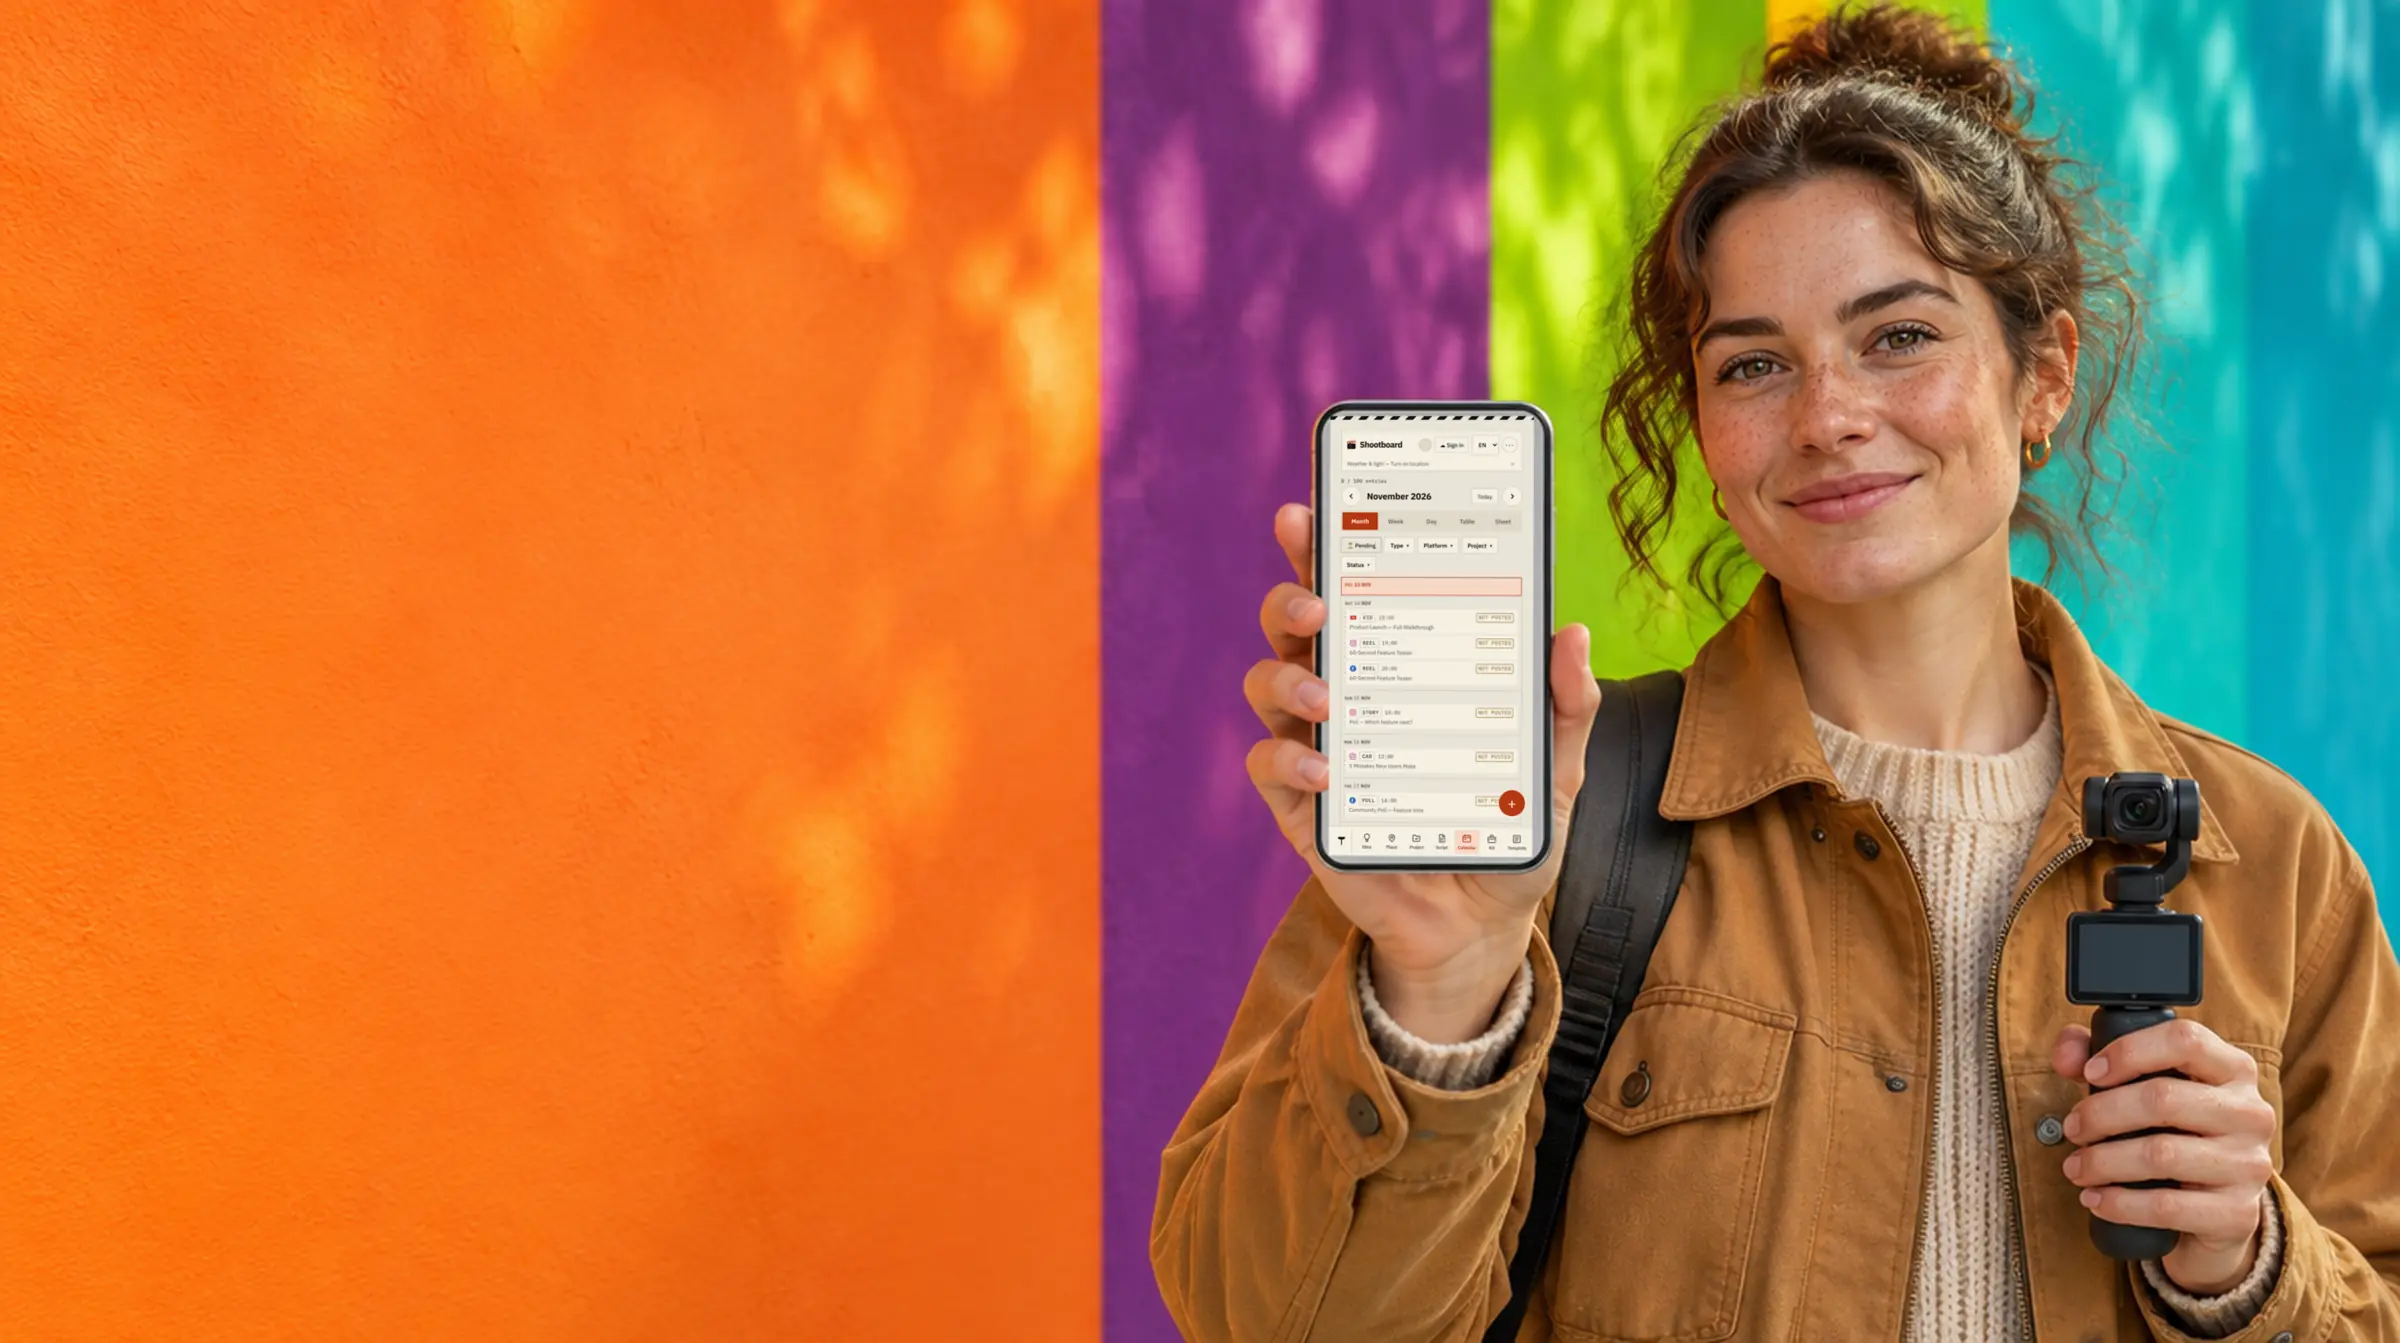
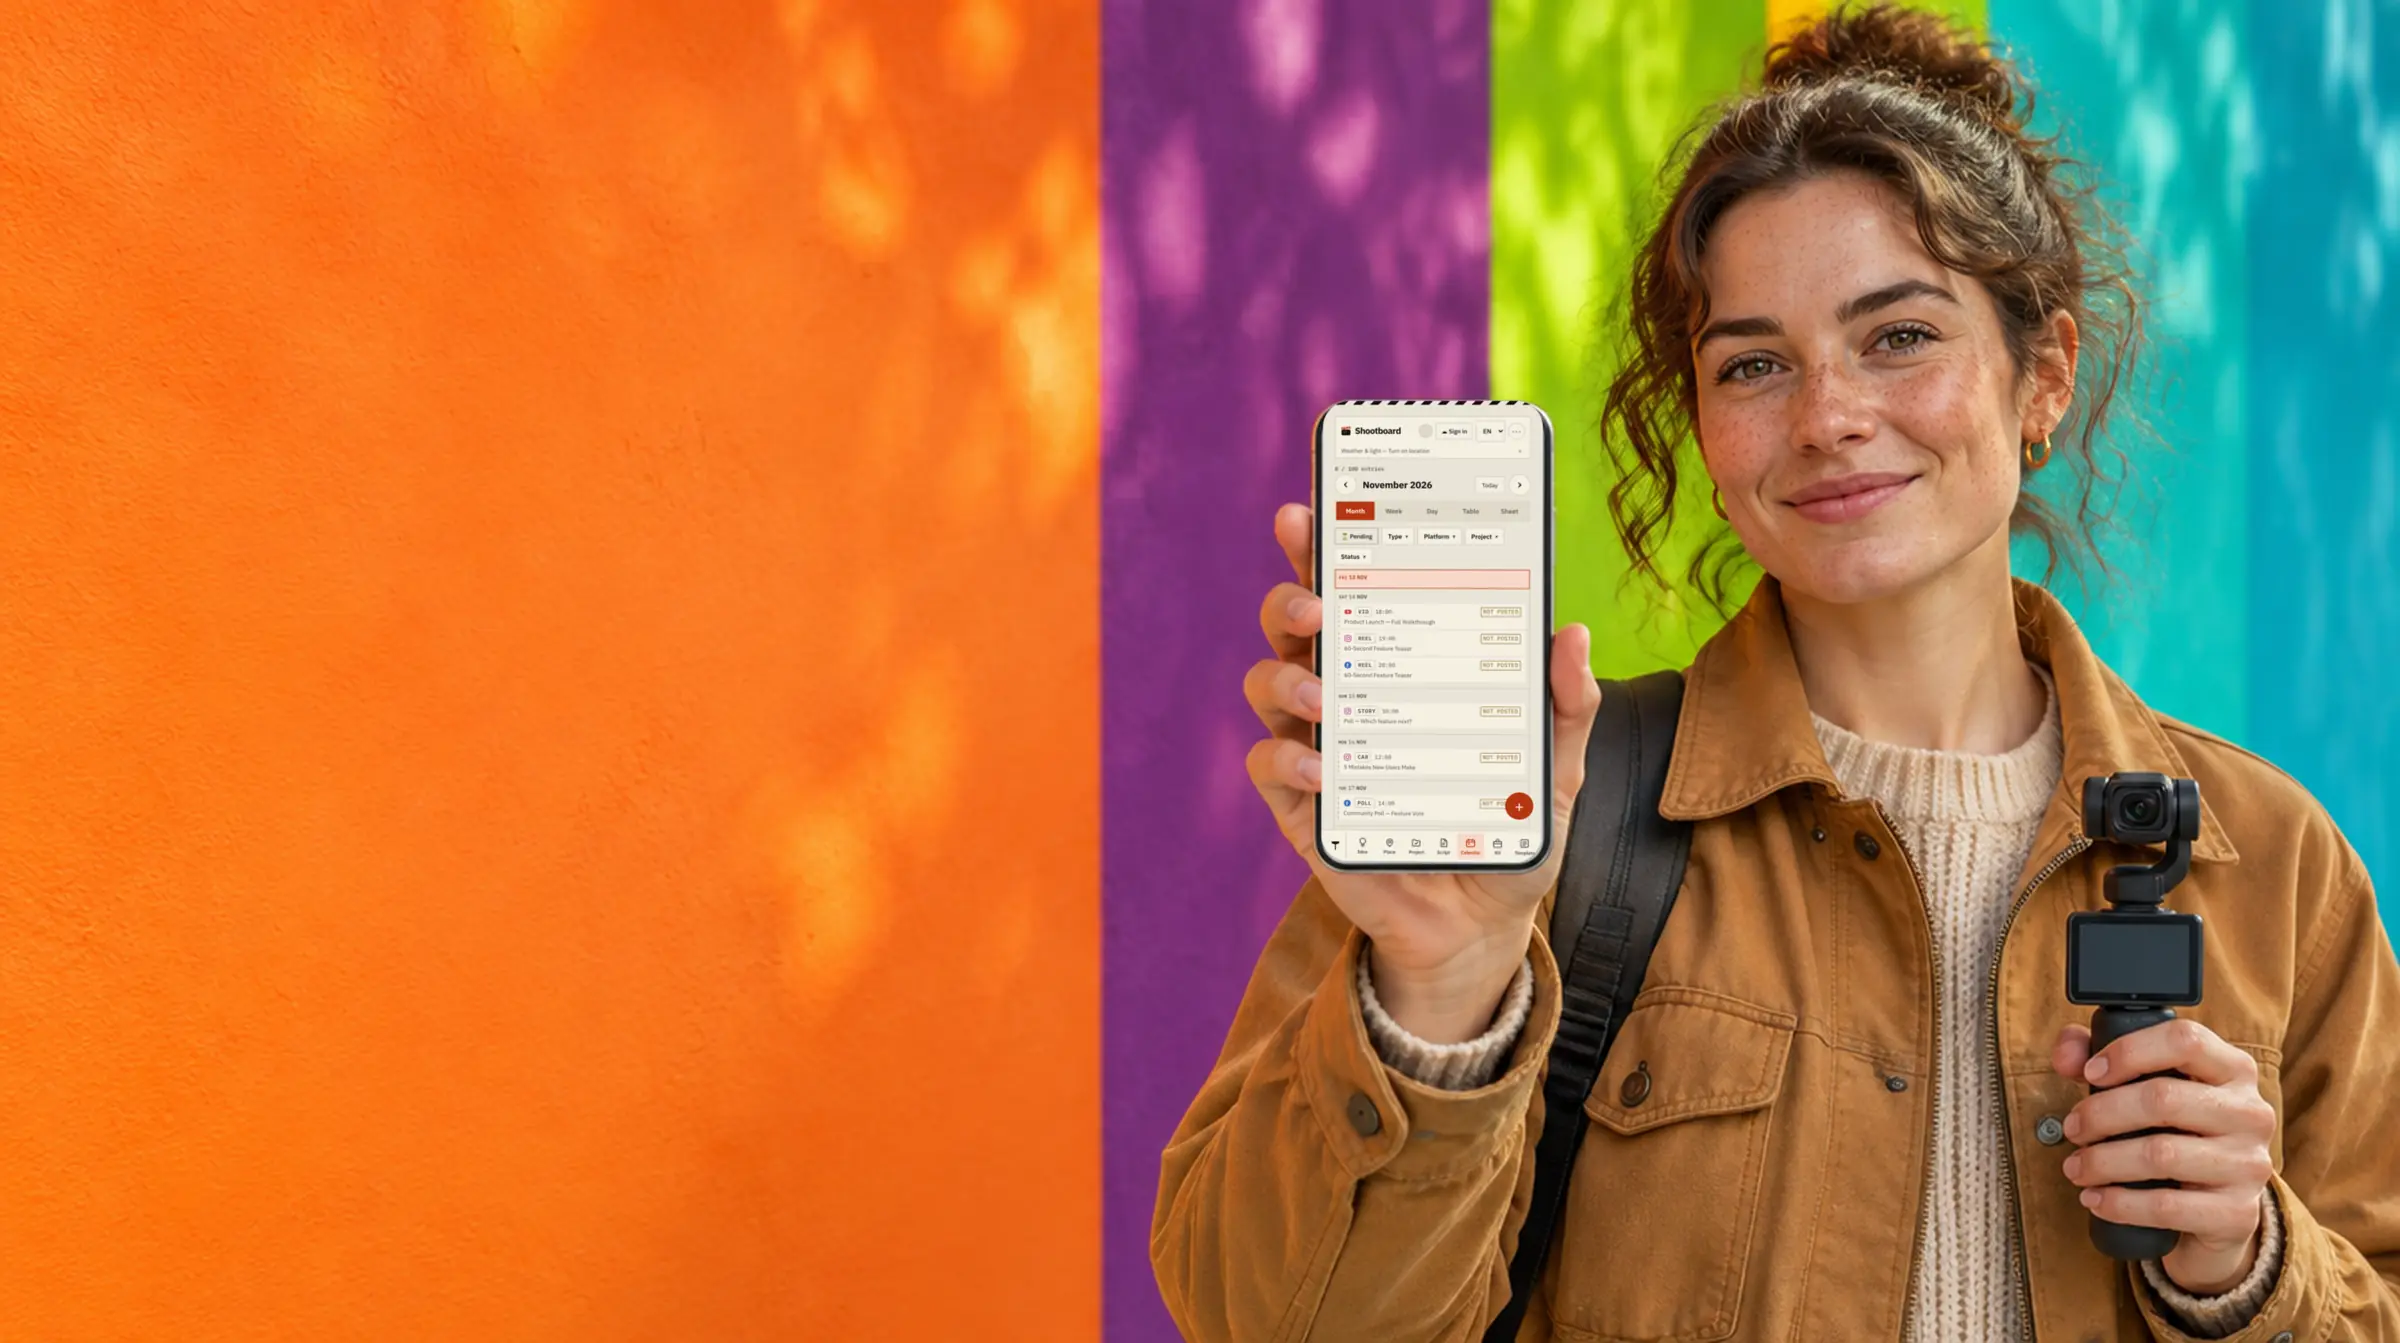
Montaj duzeltildi: uygulamanin kosleri yuvarlak, dortgen camin gercek kenarina oturuyor
KULLANICI: "bu gorselde kizin parmaklari app in arkasinda kalmis gibi!"

Tespit dogruydu ama sebebi parmaklarda degildi: ozgun fotografta HICBIR
parmak camin ustune tasmiyor (kontrol edildi). Montajda iki hata vardi:

1. KOSELER KESKINDI. Uygulama duz bir dikdortgen olarak yerlestirilmisti;
   camin yuvarlak koseleri doldu ve telefonun kenar cizgisi silindi.
   Kenar cizgisi gidince ekran telefonun ICINDE degil, elin USTUNDE
   duruyormus gibi goruluyor -- kullanicinin tarif ettigi his bu.
2. DORTGEN CAMIN KENARINA OTURMUYORDU. Ustte 17, solda 8 piksel
   icerideydi, yani koyu cercevenin bir kismini da ortuyordu.

OLCULEN DEGERLER (2 kat olcek, 2688x1504 tuval)
  camin kenarlari : x 1482-1728, y 449-966
  kose yaricapi   : ~30 piksel -> kaynak goruntude 160 piksel

YONTEM
  Kaynak ekran goruntusune once roundrectangle 0,0 1319,2849 160,160
  maskesi alfa olarak uygulaniyor, sonra perspektif donusumu yapiliyor.
  Koseler boylece perspektifle birlikte donuyor.

⚠ ILK OLCUMUM YANLISTI VE SEBEBI KAYDA GECTI: "parlak gri bolge" maskesi
  cercevedeki YANSIMAYI da ekran sayiyor ve cami oldugundan genis
  gosteriyor. Dogru yol, orta satirdaki piksel degerlerini tek tek okuyup
  koyu cerceve ile gri ekranin gercek sinirini bulmak. KUNYE.md'ye
  yanlis yontemin neden yanlis oldugu da yazildi.

Her iki dil de yeniden uretildi (kahraman-tr/en.webp, 2400x1343).
Kafa kesilmesi duzeltmesi korunuyor: 1440 ve 1920'de gozle dogrulandi.
[…]

Changed region(s): [[0.5312, 0.2748, 0.6562, 0.6411]]

diff --git a/gorseller/KUNYE.md b/gorseller/KUNYE.md
@@ -98,11 +98,29 @@ ekranda yazı/arayüz.
 telefon ekranı düz ve boş mu, kamera avuç içi kalmış mı, yüz "yapay
 zekâ yüzü" olmuş mu.
 
-**Montaj:** ekranın dört köşesi ölçülerek bulundu (göz kararıyla değil:
-parlak gri bölge tespit edilip köşeleri çıkarıldı), ekran görüntüsü
-hedef dörtgenin oranına kırpıldı (ezilmesin diye), ImageMagick
-`-distort Perspective` ile yerleştirildi, sonra sahneye uyduruldu
-(0,4 bulanıklık · %4 karartma).
+**Montaj:** ekran görüntüsü hedef dörtgenin oranına kırpıldı (ezilmesin
+diye), ImageMagick `-distort Perspective` ile yerleştirildi, sonra
+sahneye uyduruldu (0,4 bulanıklık · %4 karartma).
+
+⚠ **KÖŞELER YUVARLAK OLMALI ve dörtgen CAMIN GERÇEK KENARINA oturmalı.**
+İlk montajda ikisi de yanlıştı: köşeler keskindi ve dörtgen camın
+içinde kalıyordu (üstte 17, solda 8 piksel). Sonuç: telefonun koyu
+çerçevesi kayboluyor, kenar çizgisi silinince ekran telefonun İÇİNDE
+değil elin ÜSTÜNDE duruyormuş gibi görünüyordu — kullanıcı
+*"kızın parmakları app'in arkasında kalmış gibi"* diye bildirdi.
+
+Ölçülen değerler (2 kat ölçekte, 2688×1504 tuvalde):
+- camın kenarları: x 1482–1728, y 449–966
+- köşe yarıçapı: ~30 piksel → kaynak ekran görüntüsünde **160 piksel**
+
+Yöntem: kaynak görüntüye önce `roundrectangle 0,0 1319,2849 160,160`
+maskesi alfa olarak uygulanıyor, sonra perspektif dönüşümü yapılıyor.
+Köşeler böylece perspektifle birlikte dönüyor.
+
+⚠ Köşeleri gözle değil ÖLÇEREK bulmak gerekiyor: parlak gri maskesi
+çerçevedeki yansımayı da sayıyor, o yüzden ilk ölçümüm camı olduğundan
+geniş gösterdi. Doğru yol, orta satırdaki piksel değerlerini tek tek
+okuyup koyu çerçeve ile gri ekranın sınırını bulmak.
 
 ---
 
